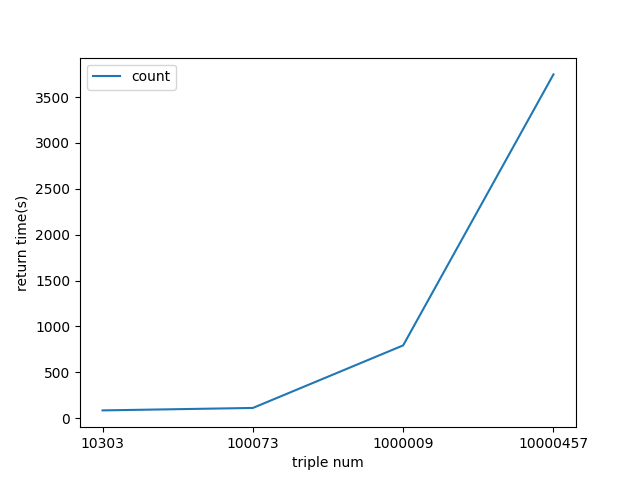
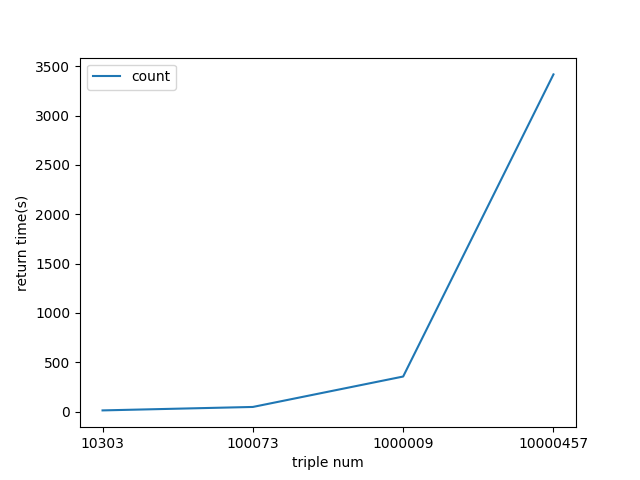
apache benchでの10回実行平均のデータに変更

diff --git a/apache_bench/each_characteristic_result.py b/apache_bench/each_characteristic_result.py
@@ -3,7 +3,7 @@ import matplotlib.pyplot as plt
 import numpy as np
 
 #データをインポート
-file_path = "./output/return_time_from_SPARQLendpoint/20221004161613.csv"
+file_path = "./output/return_time_from_SPARQLendpoint/20221005154419.csv"
 df = pd.read_csv(file_path)
 # print(df.columns.values)
 
